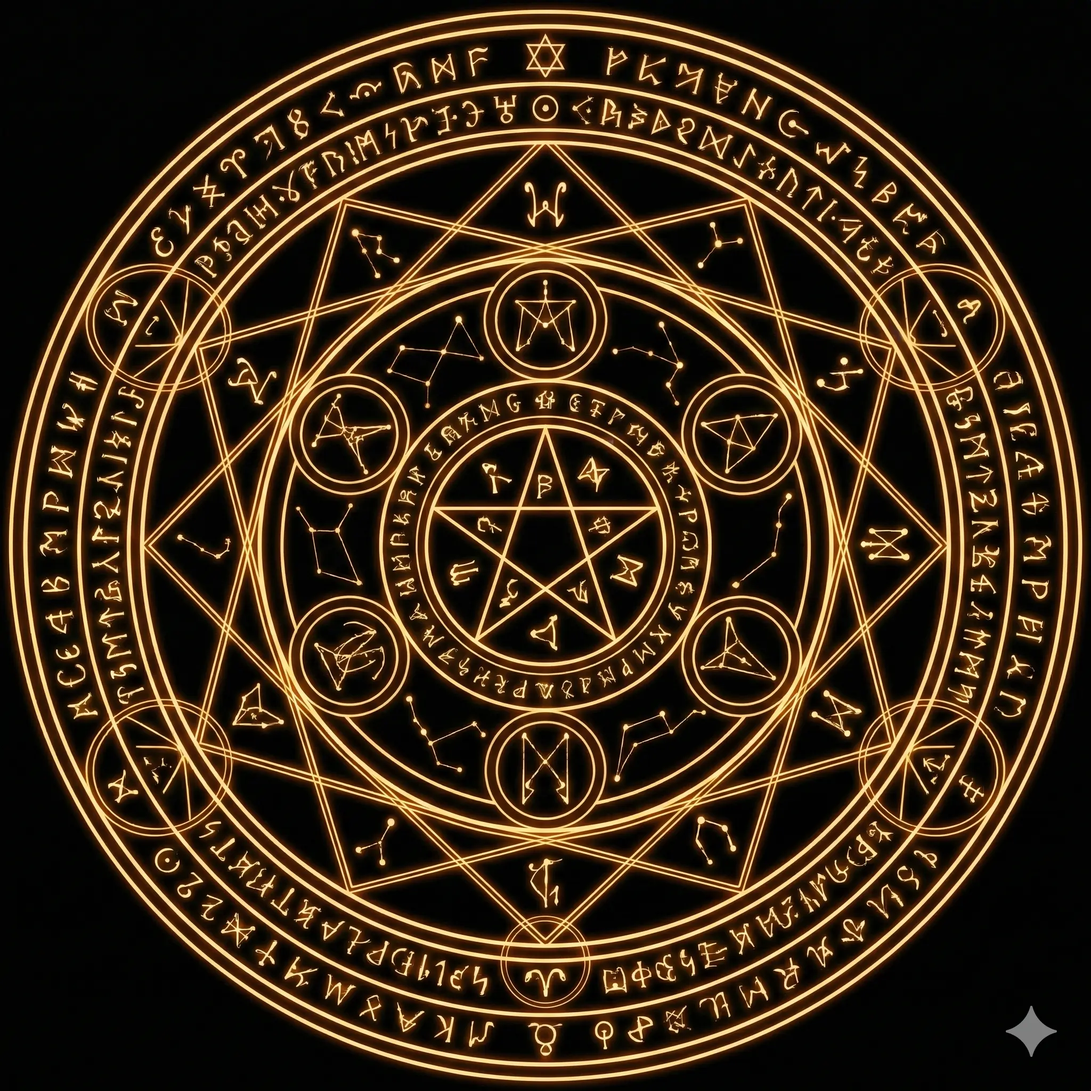
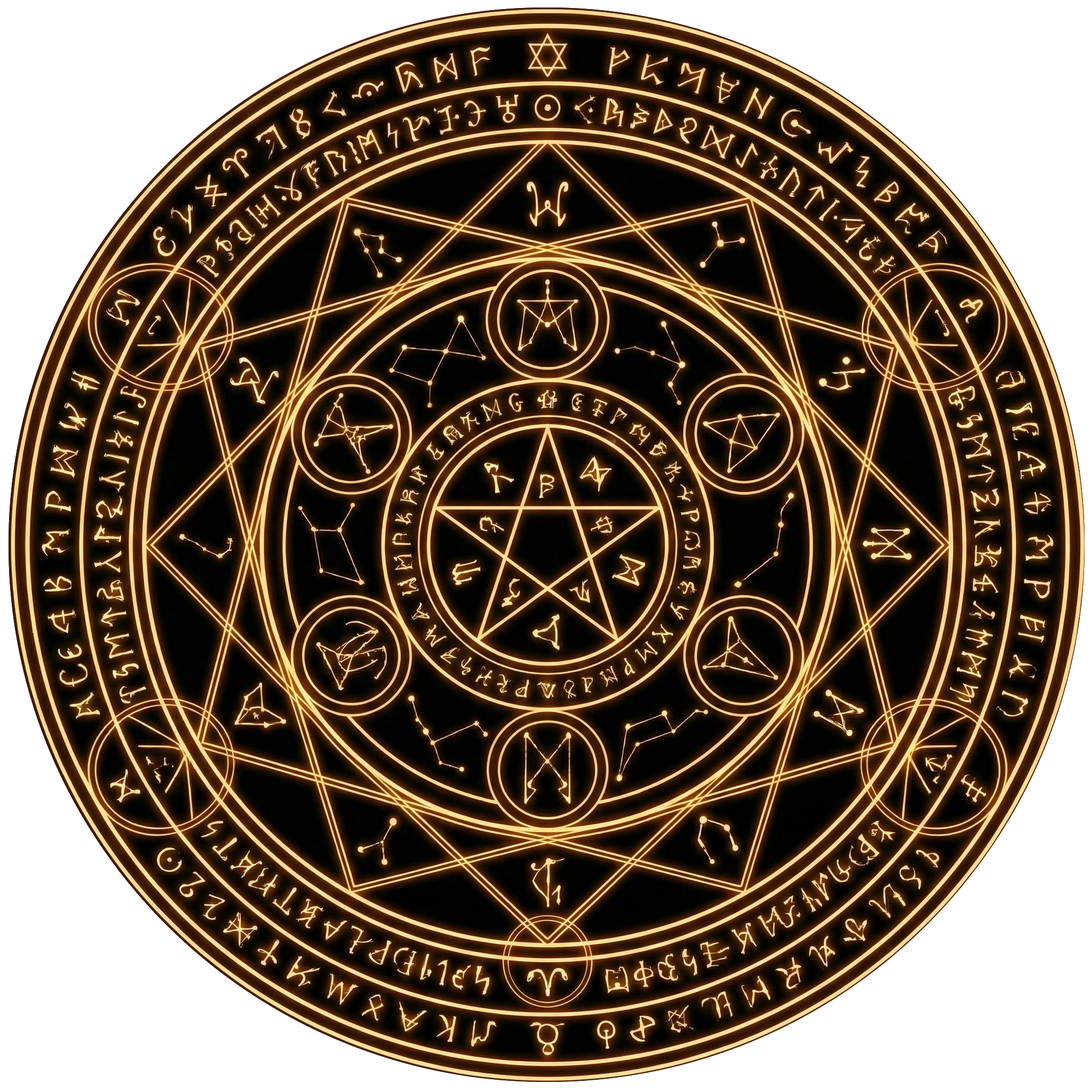
[feat] add aura layers (glow, dust, light) behind magic circle

diff --git a/frontend/src/app/page.tsx b/frontend/src/app/page.tsx
@@ -91,8 +91,46 @@ export default function LandingPage() {
           </p>
         </div>
 
-        {/* Magic Circle */}
+        {/* Magic Circle + Aura Layers */}
         <div className="relative w-[400px] h-[400px]">
+          {/* Aura Layer 1: Glow (behind everything) */}
+          <div
+            className="absolute inset-[-30%] pointer-events-none overflow-hidden rounded-full"
+            style={{
+              mixBlendMode: 'lighten',
+              animation: 'aura-pulse 6s ease-in-out infinite',
+            }}
+          >
+            {/* eslint-disable-next-line @next/next/no-img-element */}
+            <img src="/images/glow.png" alt="" className="w-full h-full object-contain" />
+          </div>
+
+          {/* Aura Layer 2: Dust (slow counter-clockwise) */}
+          <div
+            className="absolute inset-[-40%] pointer-events-none overflow-hidden rounded-full"
+            style={{
+              mixBlendMode: 'lighten',
+              animation: 'spin-reverse 50s linear infinite',
+              opacity: 0.7,
+            }}
+          >
+            {/* eslint-disable-next-line @next/next/no-img-element */}
+            <img src="/images/dust.png" alt="" className="w-full h-full object-contain" />
+          </div>
+
+          {/* Aura Layer 3: Light rays (subtle breathing) */}
+          <div
+            className="absolute inset-[-15%] pointer-events-none overflow-hidden rounded-full"
+            style={{
+              mixBlendMode: 'lighten',
+              animation: 'aura-breathe 4s ease-in-out infinite',
+            }}
+          >
+            {/* eslint-disable-next-line @next/next/no-img-element */}
+            <img src="/images/light.png" alt="" className="w-full h-full object-contain" />
+          </div>
+
+          {/* Magic Circle (on top) */}
           <div
             className="absolute w-full h-full overflow-hidden rounded-full"
             style={{

diff --git a/frontend/src/app/globals.css b/frontend/src/app/globals.css
@@ -89,3 +89,18 @@ body {
   0%, 100% { opacity: 0.4; }
   50% { opacity: 1; }
 }
+
+@keyframes aura-pulse {
+  0%, 100% { opacity: 0.3; transform: scale(1); }
+  50% { opacity: 0.6; transform: scale(1.05); }
+}
+
+@keyframes spin-reverse {
+  from { transform: rotate(0deg); }
+  to { transform: rotate(-360deg); }
+}
+
+@keyframes aura-breathe {
+  0%, 100% { opacity: 0.2; }
+  50% { opacity: 0.5; }
+}
